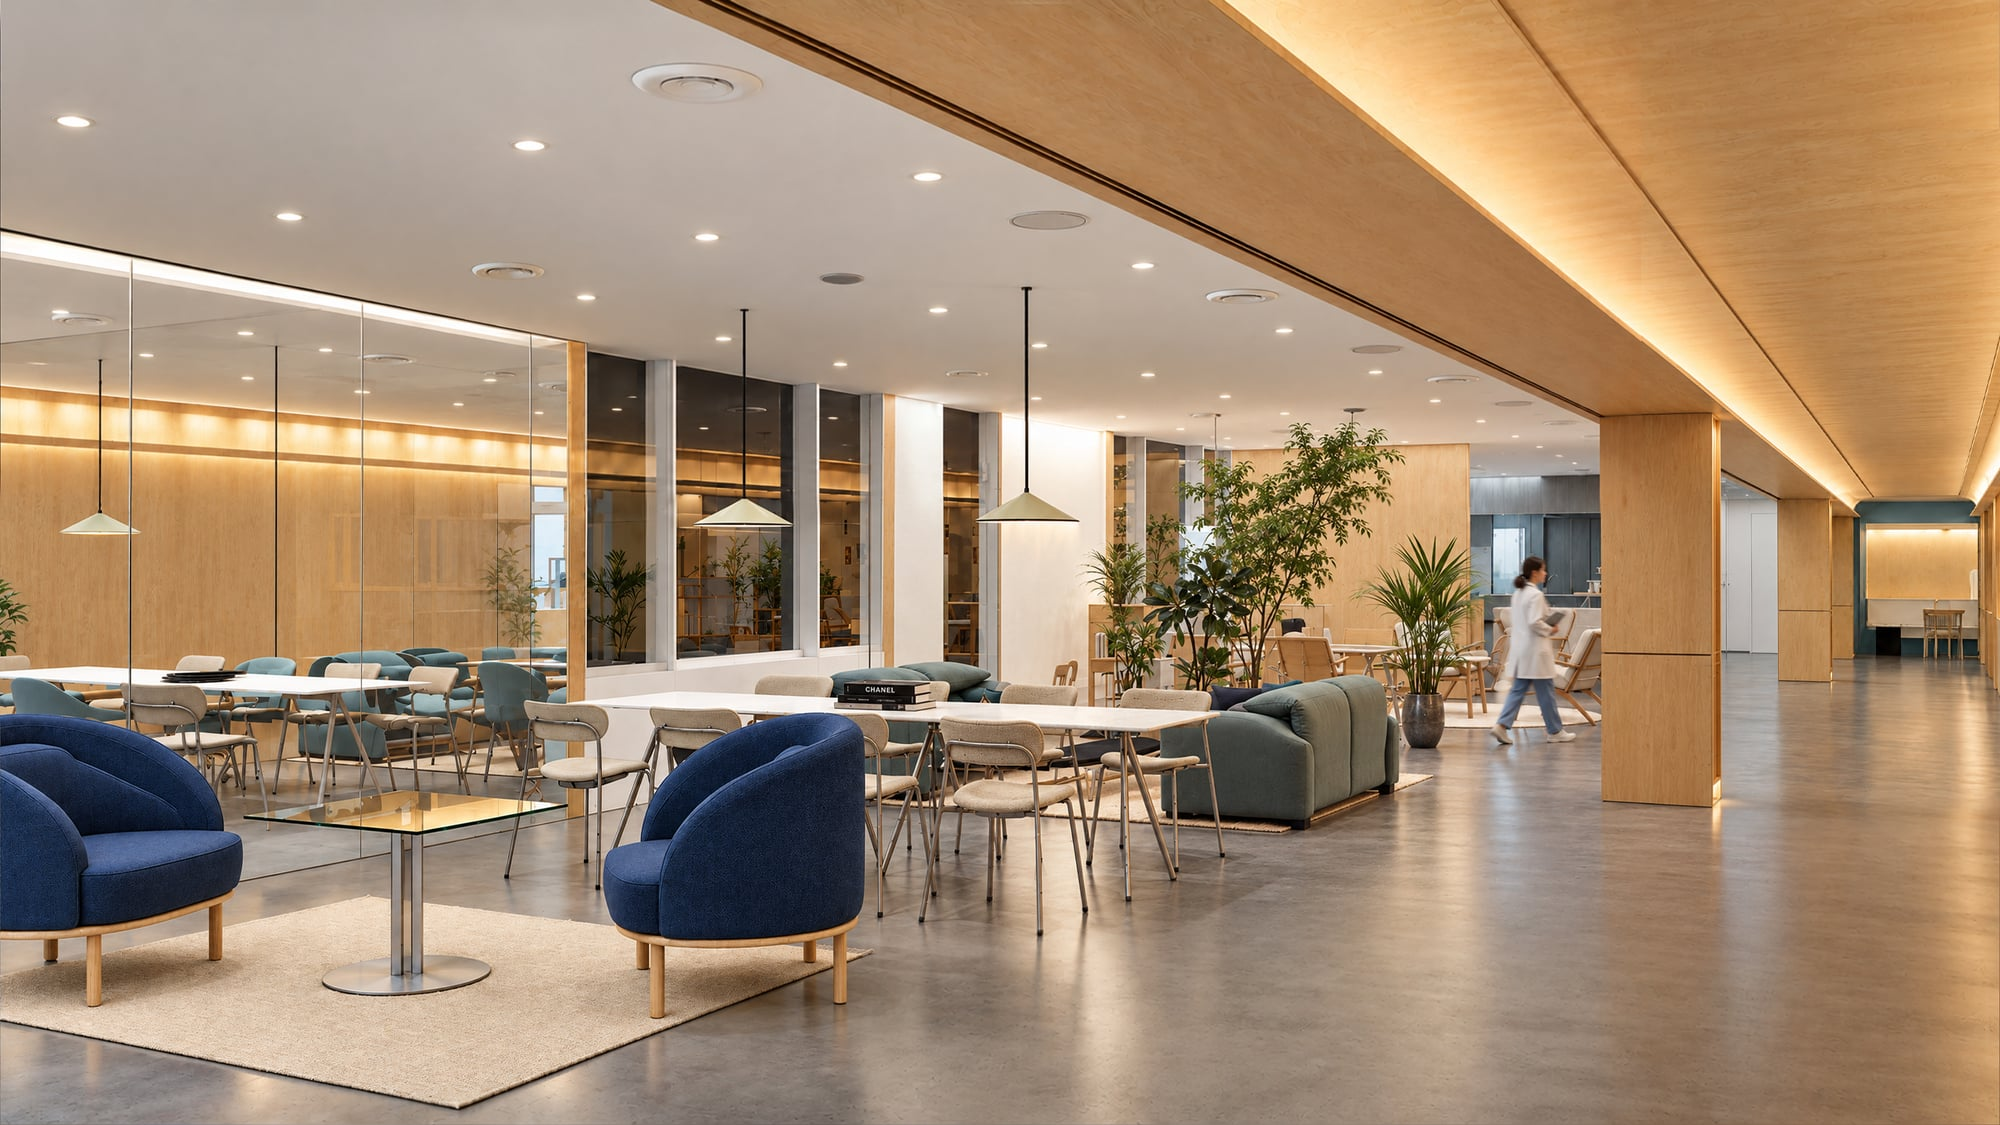
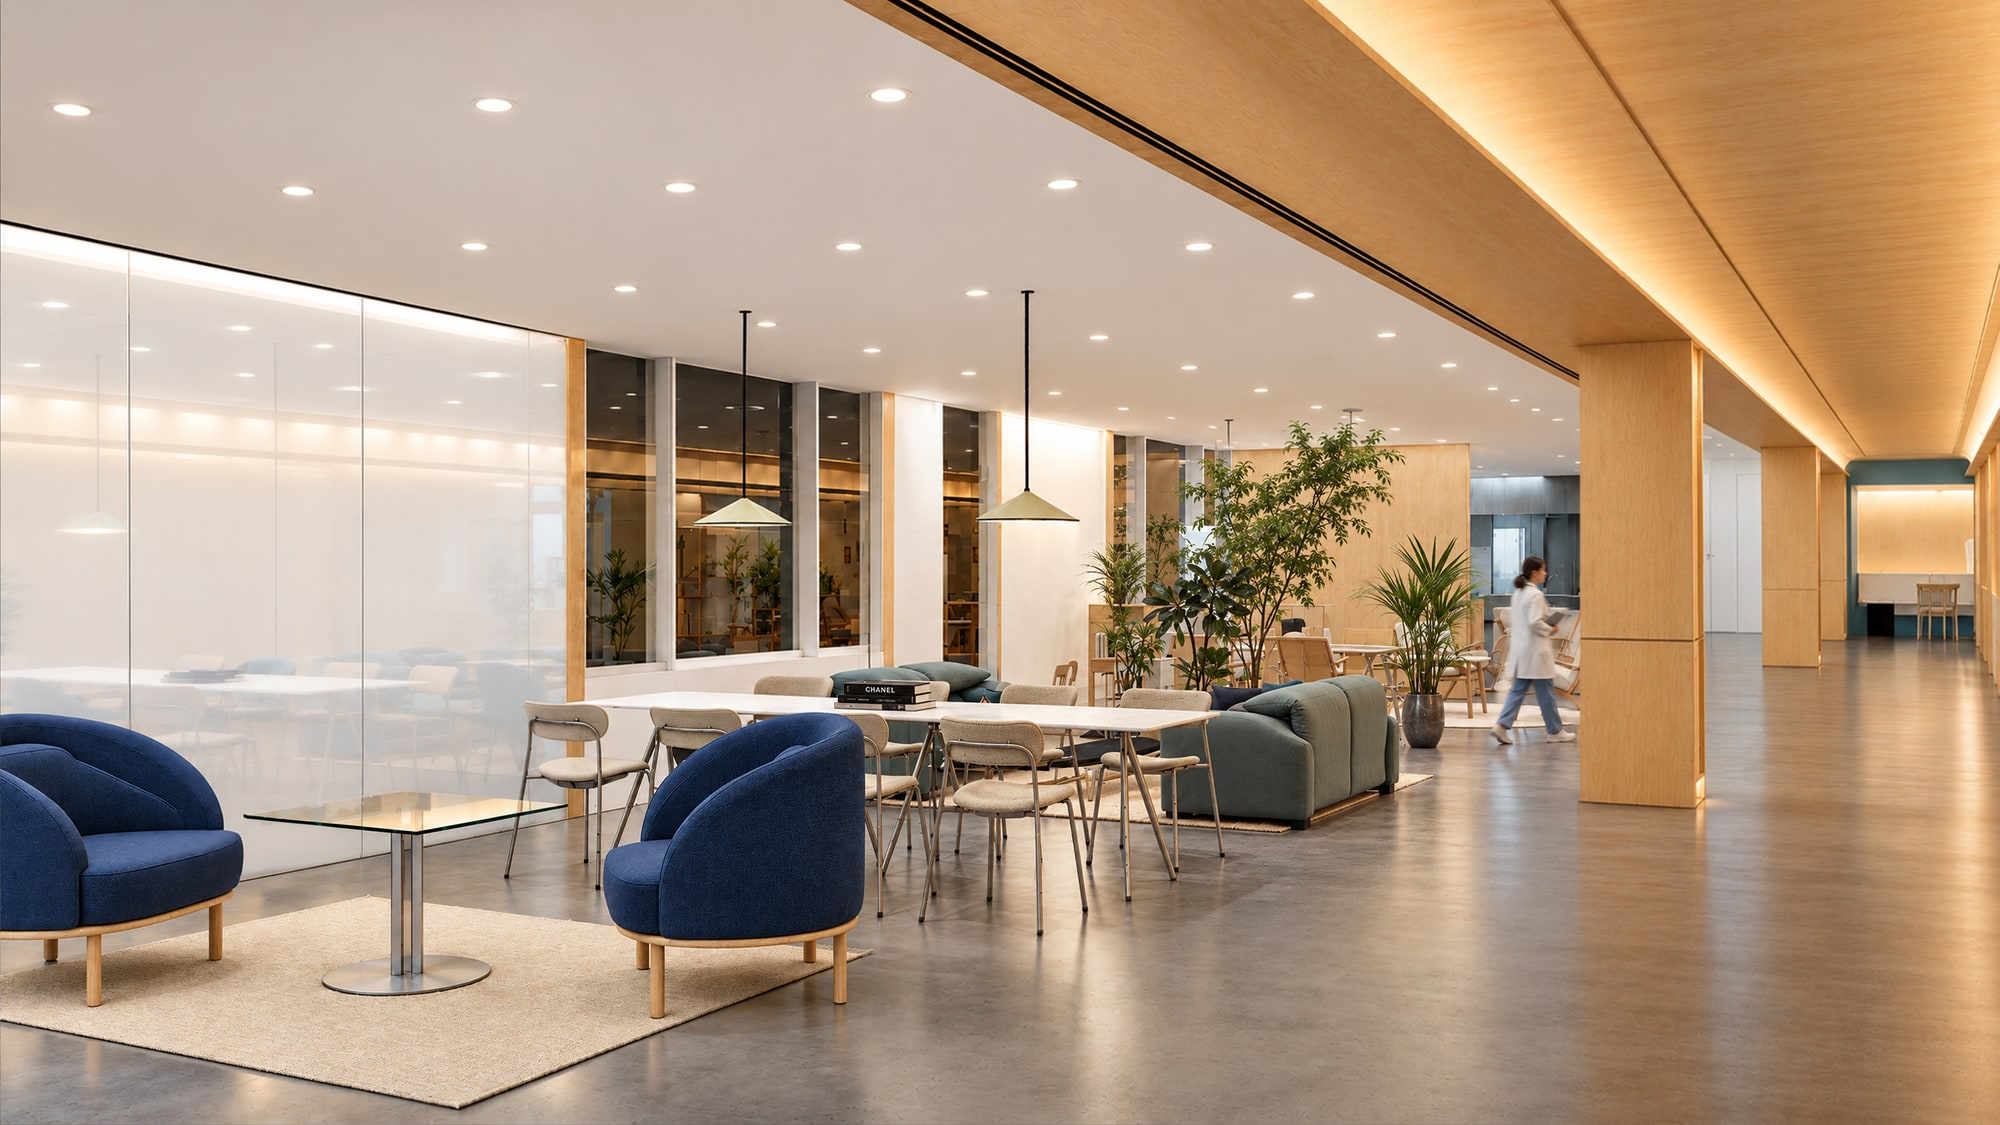
Projects: replace Yonsei Wonju photo 2

diff --git a/js/projects-data.js b/js/projects-data.js
@@ -207,7 +207,7 @@ window.PROJECTS = [
     id: 'yonsei-wonju',
     thumbnail: 'images/projects/yonsei-wonju.jpg',
     images: [
-      'images/projects/yonsei-wonju-2.jpg?v=20261026',
+      'images/projects/yonsei-wonju-2.jpg?v=20261113b',
       'images/projects/yonsei-wonju-3.jpg?v=20261026',
       'images/projects/yonsei-wonju-4.jpg?v=20261026',
       'images/projects/yonsei-wonju-5.jpg?v=20261026',

diff --git a/project.html b/project.html
@@ -102,7 +102,7 @@
 </main>
 
 <script src="js/main.js?v=22"></script>
-<script src="js/projects-data.js?v=20261113"></script>
+<script src="js/projects-data.js?v=20261113b"></script>
 <script src="js/project-detail.js?v=20261023b"></script>
 </body>
 </html>

diff --git a/projects.html b/projects.html
@@ -83,7 +83,7 @@
 </main>
 
 <script src="js/main.js?v=22"></script>
-<script src="js/projects-data.js?v=20261113"></script>
+<script src="js/projects-data.js?v=20261113b"></script>
 <script src="js/projects.js?v=20261020"></script>
 </body>
 </html>

diff --git a/index.html b/index.html
@@ -131,7 +131,7 @@
 
 </main>
 
-<script src="js/projects-data.js?v=20261113"></script>
+<script src="js/projects-data.js?v=20261113b"></script>
 <script src="js/main.js?v=22"></script>
 <script>
   /* Contact form — Formspree AJAX submit */
